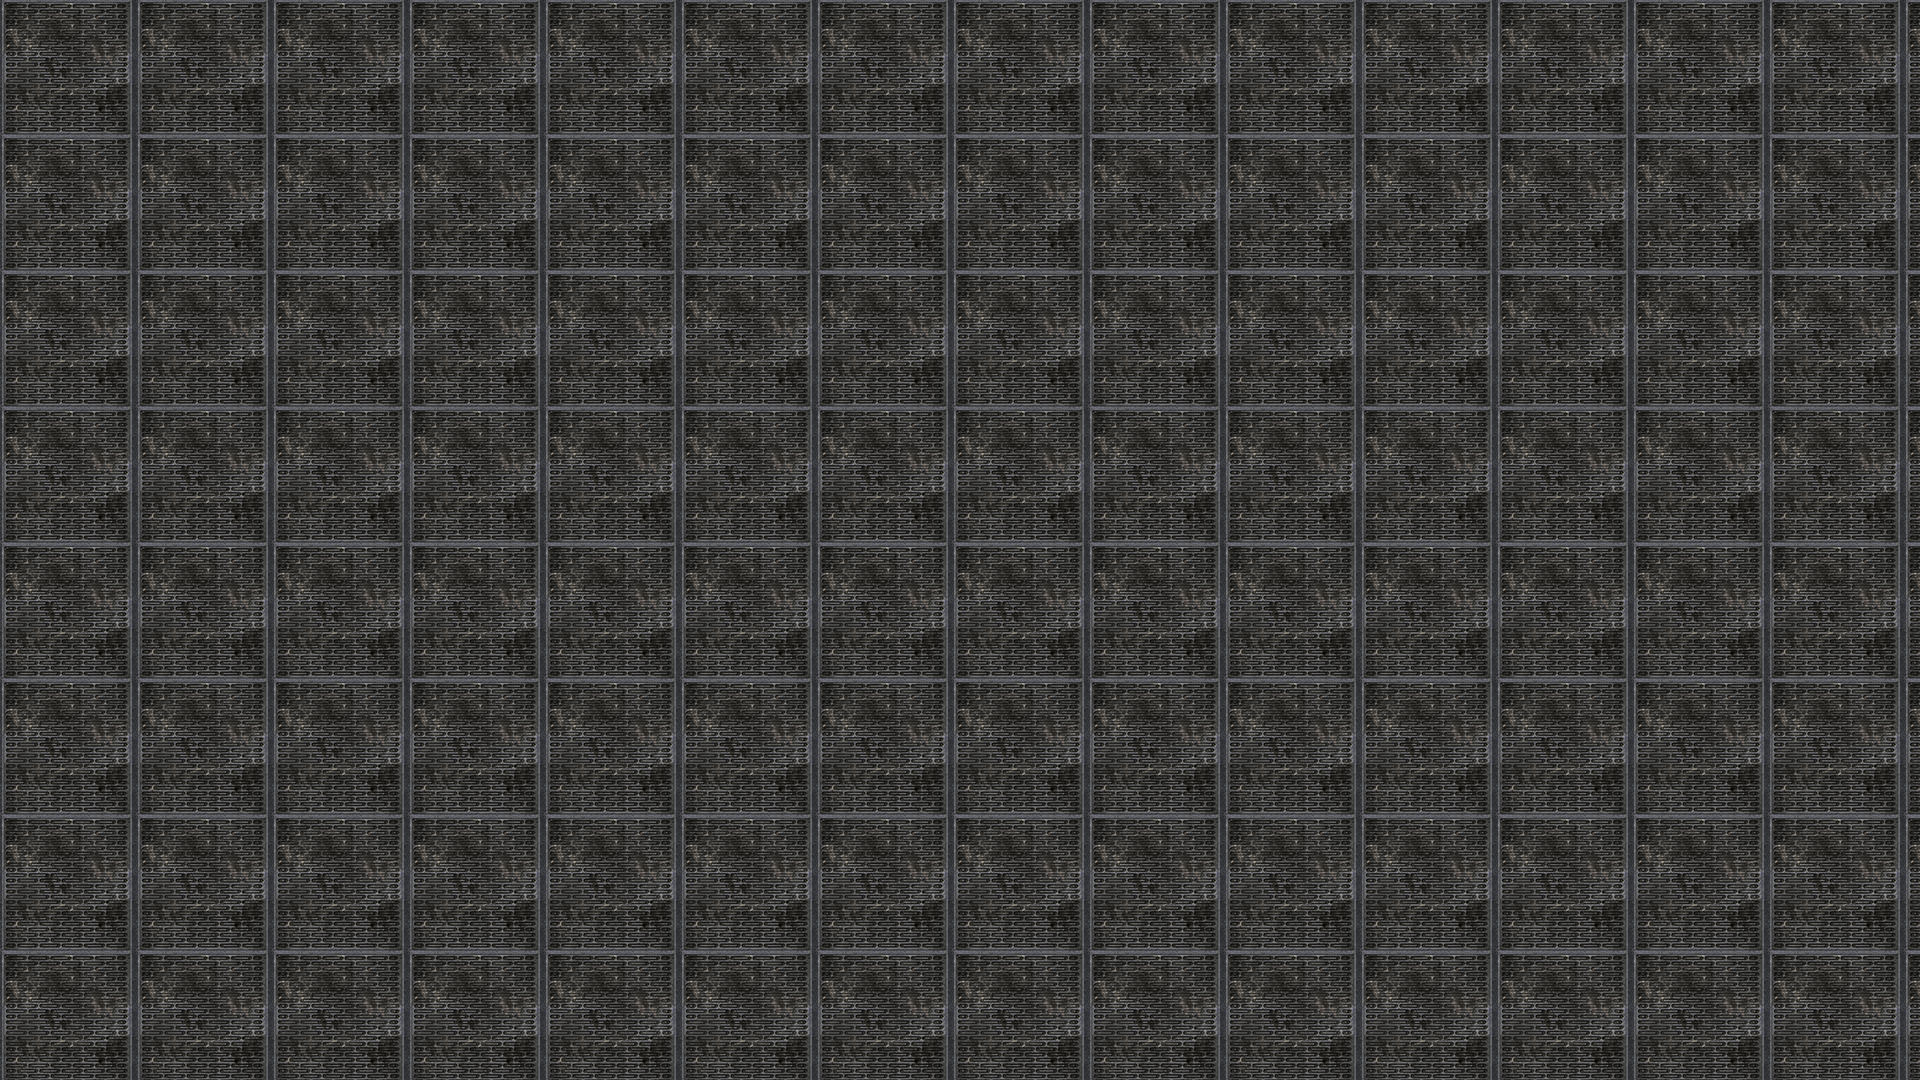
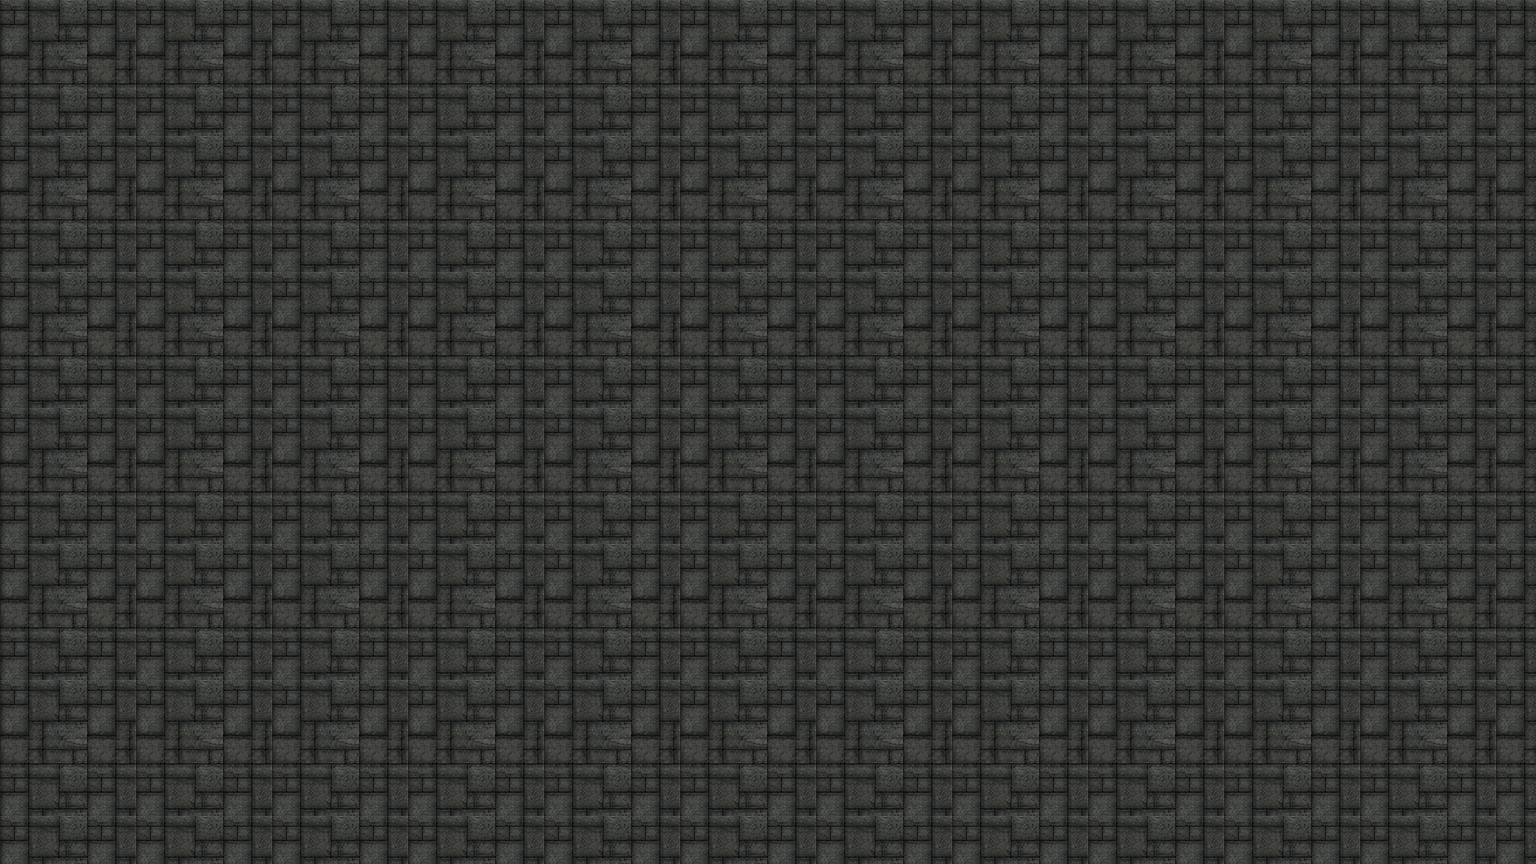
gun updates

diff --git a/main.py b/main.py
@@ -6,6 +6,7 @@ from numba import njit, prange
 from numba.typed import List
 from math import cos, sin, atan2, inf, pi
 from collections import deque
+from random import randint
 
 pygame.init()
 display_info = pygame.display.Info()
@@ -14,7 +15,8 @@ size = width, height = display_info.current_w, display_info.current_h
 screen = pygame.display.set_mode(size)
 fps = 60
 clock = pygame.time.Clock()
-level = 1
+level = 4
+
 all_sprites = pygame.sprite.Group()
 walls = pygame.sprite.Group()
 enemies = pygame.sprite.Group()
@@ -27,19 +29,17 @@ def go_game():
         for event in pygame.event.get():
             if event.type == pygame.QUIT:
                 running = False
-            if event.type == pygame.MOUSEBUTTONDOWN:
-                if event.button == pygame.BUTTON_LEFT:
-                    player.shoot()
             elif event.type == pygame.KEYDOWN:
                 if event.key == pygame.K_ESCAPE:
                     start_menu()
-        screen.fill('white')
+        if pygame.mouse.get_pressed()[0]:
+            player.shoot()
+
         all_sprites.draw(screen)
 
         bullets.update()
+        gun.reload -= 1
         player.update()
-
-        enemies.draw(screen)
 
         fps_counter()
         pygame.display.flip()
@@ -135,7 +135,7 @@ class Wall(pygame.sprite.Sprite):
 
 
 class Floor(pygame.sprite.Sprite):
-    image = Image.open('data/floor6.png')
+    image = Image.open('data/floor.png')
 
     def __init__(self):
         super(Floor, self).__init__(all_sprites)
@@ -149,7 +149,8 @@ class Floor(pygame.sprite.Sprite):
         h = height // self.image.height
         for row in range(h + 5):
             for col in range(w + 5):
-                self.result_floor_image.paste(self.image, (col * self.image.width, row * self.image.height))
+                self.result_floor_image.paste(self.image,
+                                              (col * self.image.width, row * self.image.height))
         self.result_floor_image.save('data/floor_result.png')
         self.image = load_image('floor_result.png')
         return self.image
@@ -185,7 +186,7 @@ class Bullet(pygame.sprite.Sprite):
 
         self.point.x = self.pos_x
         self.point.y = self.pos_y
-        pygame.draw.line(screen, 'orange', (self.point.x, self.point.y),
+        pygame.draw.line(screen, '#FD4A03', (self.point.x, self.point.y),
                          (self.point.x - dx, self.point.y - dy), 5)
 
     def bounce(self):
@@ -203,12 +204,20 @@ class Bullet(pygame.sprite.Sprite):
 
 
 class Weapon:
-    def shot(self, v0=40, a=-0.5):
+    def __init__(self):
+        self.reload_speed = 1
+        self.reload = self.reload_speed
+        self.accuracy = 0.05
+        self.a = -0.5
+        self.v0 = 40
+
+    def shot(self):
         mx, my = pygame.mouse.get_pos()
         x, y = player.x + player.radius, player.y + player.radius
         phi = atan2(my - y, mx - x)
-        for i in range(-10, 11):
-            Bullet(x, y, phi + i / 100, v0, a)
+        for i in range(-1, 2):
+            alpha = randint(-self.accuracy * 100, self.accuracy * 100)
+            Bullet(x, y, phi + alpha / 100 + i / 100, self.v0, self.a)
 
 
 class Character(pygame.sprite.Sprite):
@@ -253,7 +262,9 @@ class Player(Character):
         self.aim_x, self.aim_y = x + radius, y + radius
 
     def shoot(self):
-        gun.shot()
+        if gun.reload < 0:
+            gun.shot()
+            gun.reload = gun.reload_speed
 
     def ray_cast(self):
         mx, my = pygame.mouse.get_pos()
@@ -263,17 +274,16 @@ class Player(Character):
         coords = self.start_ray_coords(x, y, view_angle)
         coords.extend(ray_cycle(x, y, view_angle, ray_obstacles, map.cell_w,
                                 map.cell_h, map.map_w, map.map_h, self.fov))
-
         pygame.draw.polygon(screen, 'black', coords)
 
-    def start_ray_coords(self, x, y, a):
-        if -pi <= a <= -pi / 2:
+    def start_ray_coords(self, x, y, alpha):
+        if -pi <= alpha <= -pi / 2:
             return [(x, y), (width, height), (0, height), (0, 0),
                     (width, 0), (width, height), (x, y)]
-        elif -pi / 2 <= a <= 0:
+        elif -pi / 2 <= alpha <= 0:
             return [(x, y), (0, height), (0, 0), (width, 0),
                     (width, height), (0, height), (x, y)]
-        elif 0 <= a <= pi / 2:
+        elif 0 <= alpha <= pi / 2:
             return [(x, y), (0, 0), (width, 0), (width, height),
                     (0, height), (0, 0), (x, y)]
         else:
@@ -297,7 +307,6 @@ class Player(Character):
     def update(self):
         self.move_character()
         self.ray_cast()
-        self.location_on_the_map = (self.x // (width // map.map_w), self.y // (width // map.map_h))
 
 
 class Map:
@@ -450,51 +459,57 @@ class Mobs(Character):
         self.render()
 
 
-@njit(fastmath=True)
-def ray_cycle(player_x, player_y, view_angle, obstacles, tile_w, tile_h, w, h, fov):
+@njit(fastmath=True, boundscheck=True)
+def ray_cycle(player_x, player_y, view_angle, obstacles, tile_w, tile_h, map_w, map_h, fov):
     rounded_x = (player_x // tile_w) * tile_w
     rounded_y = (player_y // tile_h) * tile_h
     coords = []
 
-    for alpha in prange(-fov, fov + 1):  # Цикл по углу обзора
+    for alpha in range(-fov, fov + 1):  # Цикл по углу обзора
         alpha = view_angle + alpha / 100
         sin_a = sin(alpha) if sin(alpha) else 0.000001
         cos_a = cos(alpha) if cos(alpha) else 0.000001
+        ray_x, ray_y = player_x, player_y
 
         # Пересечение по вертикали
         ray_x, dx = (rounded_x + tile_w, 1) if cos_a >= 0 else (rounded_x, -1)
         found = False
-        for _ in prange(0, w * tile_w, tile_w):
+        for _ in range(0, map_w * tile_w, tile_w):
             length_v = (ray_x - player_x) / cos_a
             ray_y = player_y + length_v * sin_a
 
-            for ox, oy, w, h in obstacles:
-                if ox <= ray_x <= ox + w and oy <= ray_y <= oy + h:
+            for ox, oy, map_w, map_h in obstacles:
+                if ox <= ray_x <= ox + map_w and oy <= ray_y <= oy + map_h:
                     found = True
                     break
             if found:
                 break
             ray_x += tile_w * dx
-        res_v = (ray_x, ray_y, length_v)
+        res_v = (int(ray_x), int(ray_y), length_v)
 
         # Пересечение по горизонтали
         ray_y, dy = (rounded_y + tile_h, 1) if sin_a >= 0 else (rounded_y, -1)
         found = False
-        for _ in prange(0, h * tile_h, tile_h):
+        for _ in range(0, map_h * tile_h, tile_h):
             length_h = (ray_y - player_y) / sin_a
             ray_x = player_x + length_h * cos_a
 
-            for ox, oy, w, h in obstacles:
-                if ox <= ray_x <= ox + w and oy <= ray_y <= oy + h:
+            for ox, oy, map_w, map_h in obstacles:
+                if ox <= ray_x <= ox + map_w and oy <= ray_y <= oy + map_h:
                     found = True
                     break
             if found:
                 break
             ray_y += tile_h * dy
-        res_h = (ray_x, ray_y, length_h)
+        res_h = (int(ray_x), int(ray_y), length_h)
 
         res = (res_v[0], res_v[1]) if res_v[2] <= res_h[2] else (res_h[0], res_h[1])
-        coords.append(res)
+
+        if (len(coords) > 1 and (coords[-1][0] == res[0] and coords[-2][0] == res[0] or
+                                 coords[-1][1] == res[1] and coords[-2][1] == res[1])):
+            coords[-1] = res
+        else:
+            coords.append(res)
     return coords
 
 
@@ -513,7 +528,7 @@ if __name__ == '__main__':
     obstacles = [wall.rect for wall in walls]  # Спиоск всех преград
     ray_obstacles = List([(wall.rect.x, wall.rect.y,
                            wall.rect.w, wall.rect.h) for wall in walls])
-    player = Player(width // 2, height // 2, 90)
+    player = Player(width // 2, height // 2, 80)
 
     v = 5
     start_menu()
